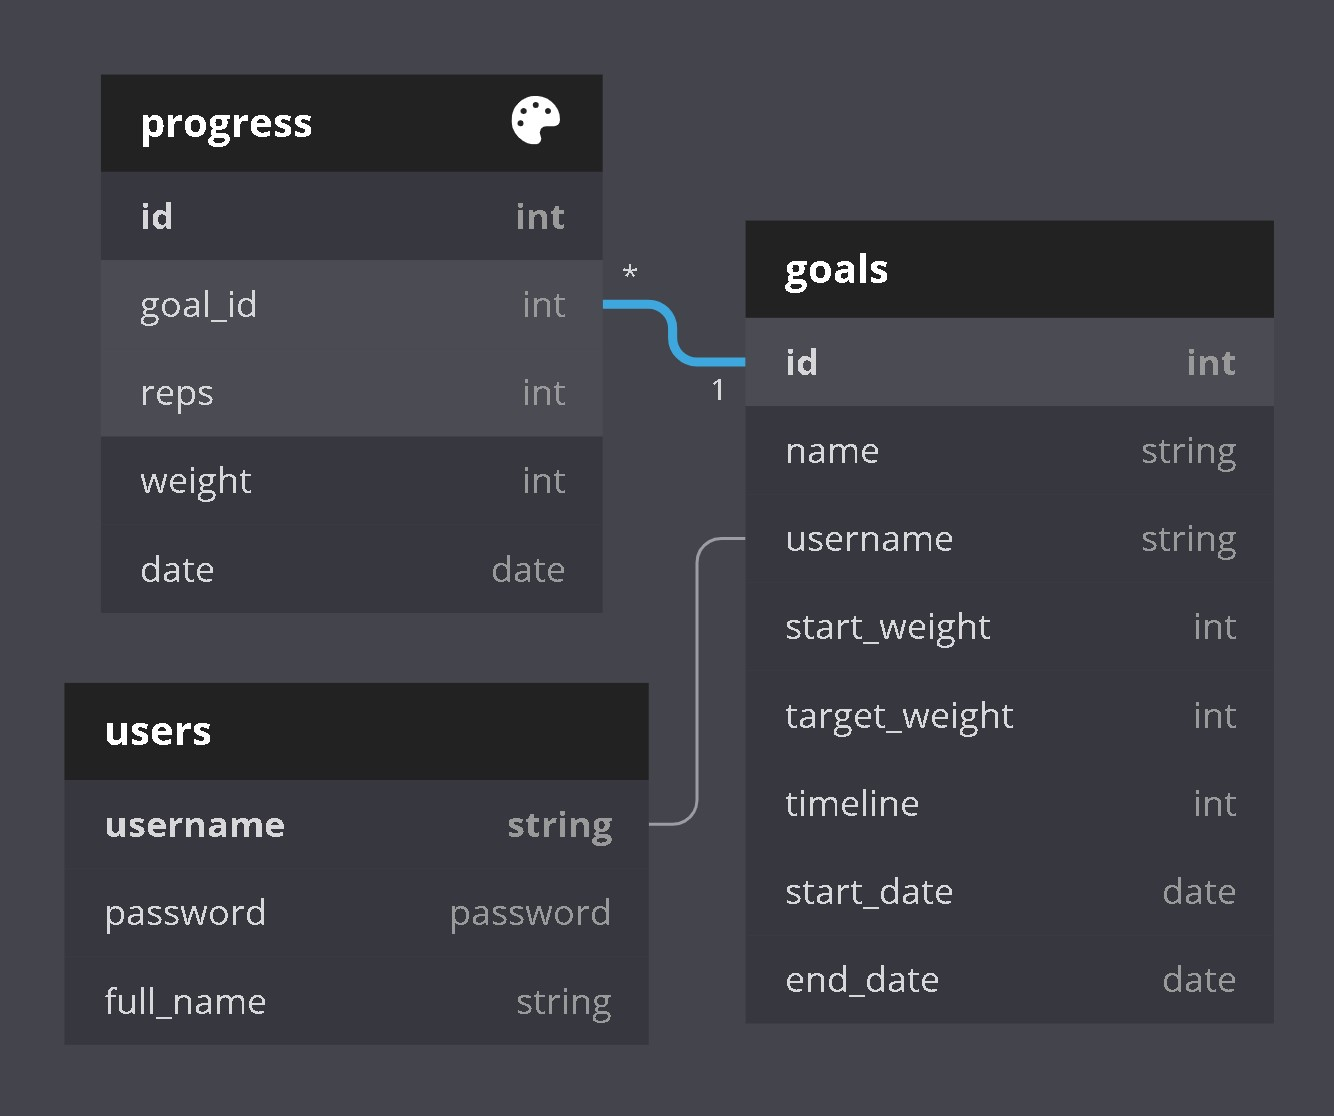
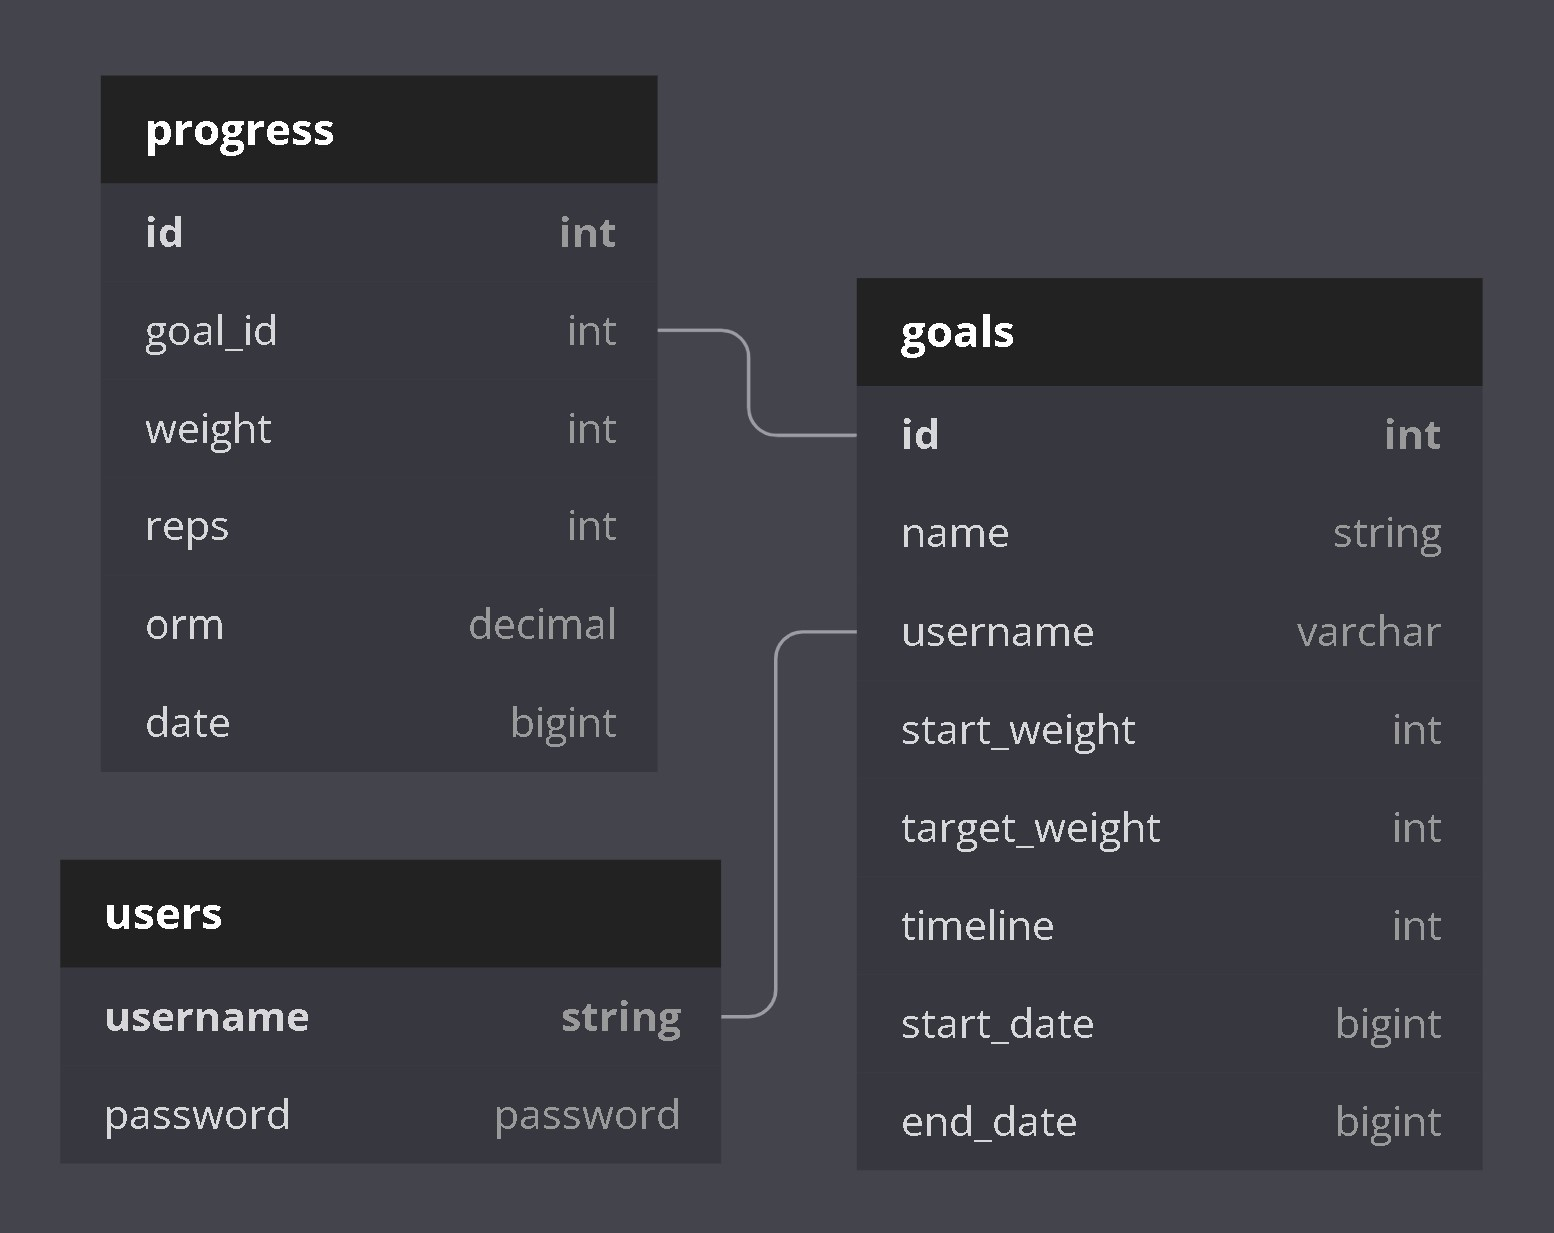
initial readme

diff --git a/README.md b/README.md
@@ -5,6 +5,26 @@ Frontend found [here](https://github.com/cwaymeyer/goals-react-frontend).
 
 JavaScript / Node / Express / PostgreSQL
 
+##### To run
+
+- `node server.js` (starts the server on port 3001)
+
+### Functionality
+
+<b>Goals is a workout progress tracker application.</b>
+
+- Each "goal" is associated with an individual user.
+- A goal will have a target weight to hit, and a desired timeline (3, 6, 9, or 12 months) to hit that weight.
+- Recorded workouts are saved in the "progress" table.
+- In all cases, dates are saved as [UNIX time](https://unixtime.org/).
+  <br />
+  > <b>Goals table</b>
+  - <i>username</i> is added on the front end.
+  - <i>start_weight</i> is added on the front end based on the first inputed progress row.
+  - <i>start_date</i> and <i>end_date</i> are automatically calculated through the JS Date object on the front end.
+    > <b>Progress table</b>
+  - <i>goal_id</i> and <i>orm</i> are not inputed, but are calculated on the front end.
+
 ### Database schema
 
-<img src="./public/db_diagram.jpg" width="800"/>
+<img src="./public/db_diagram.jpg" width="700"/>
